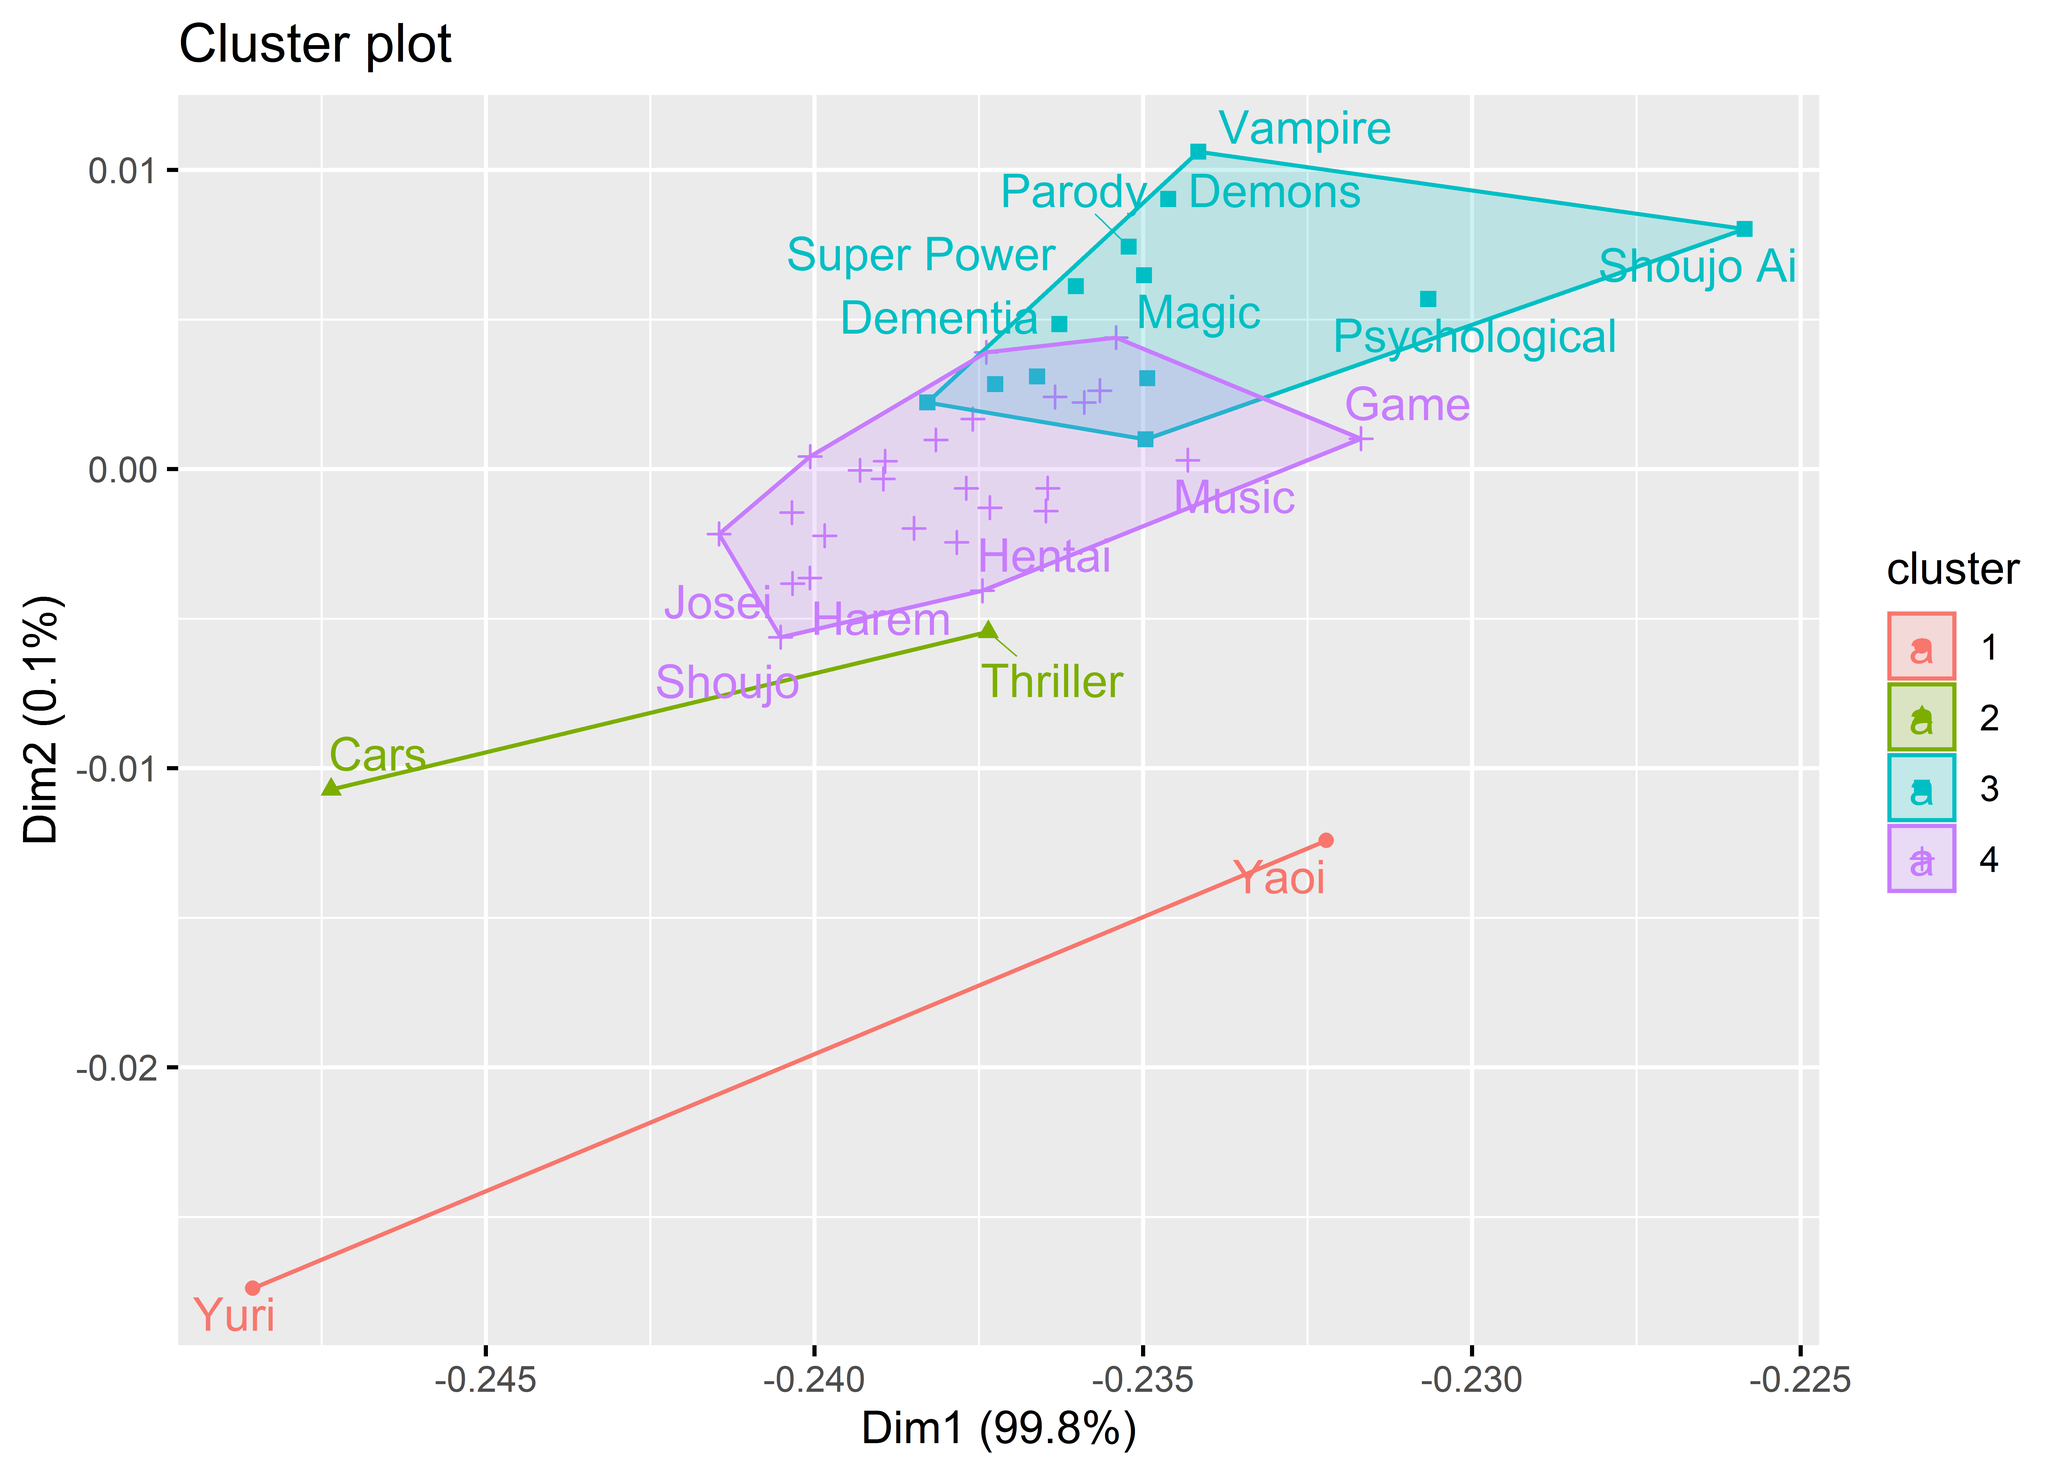
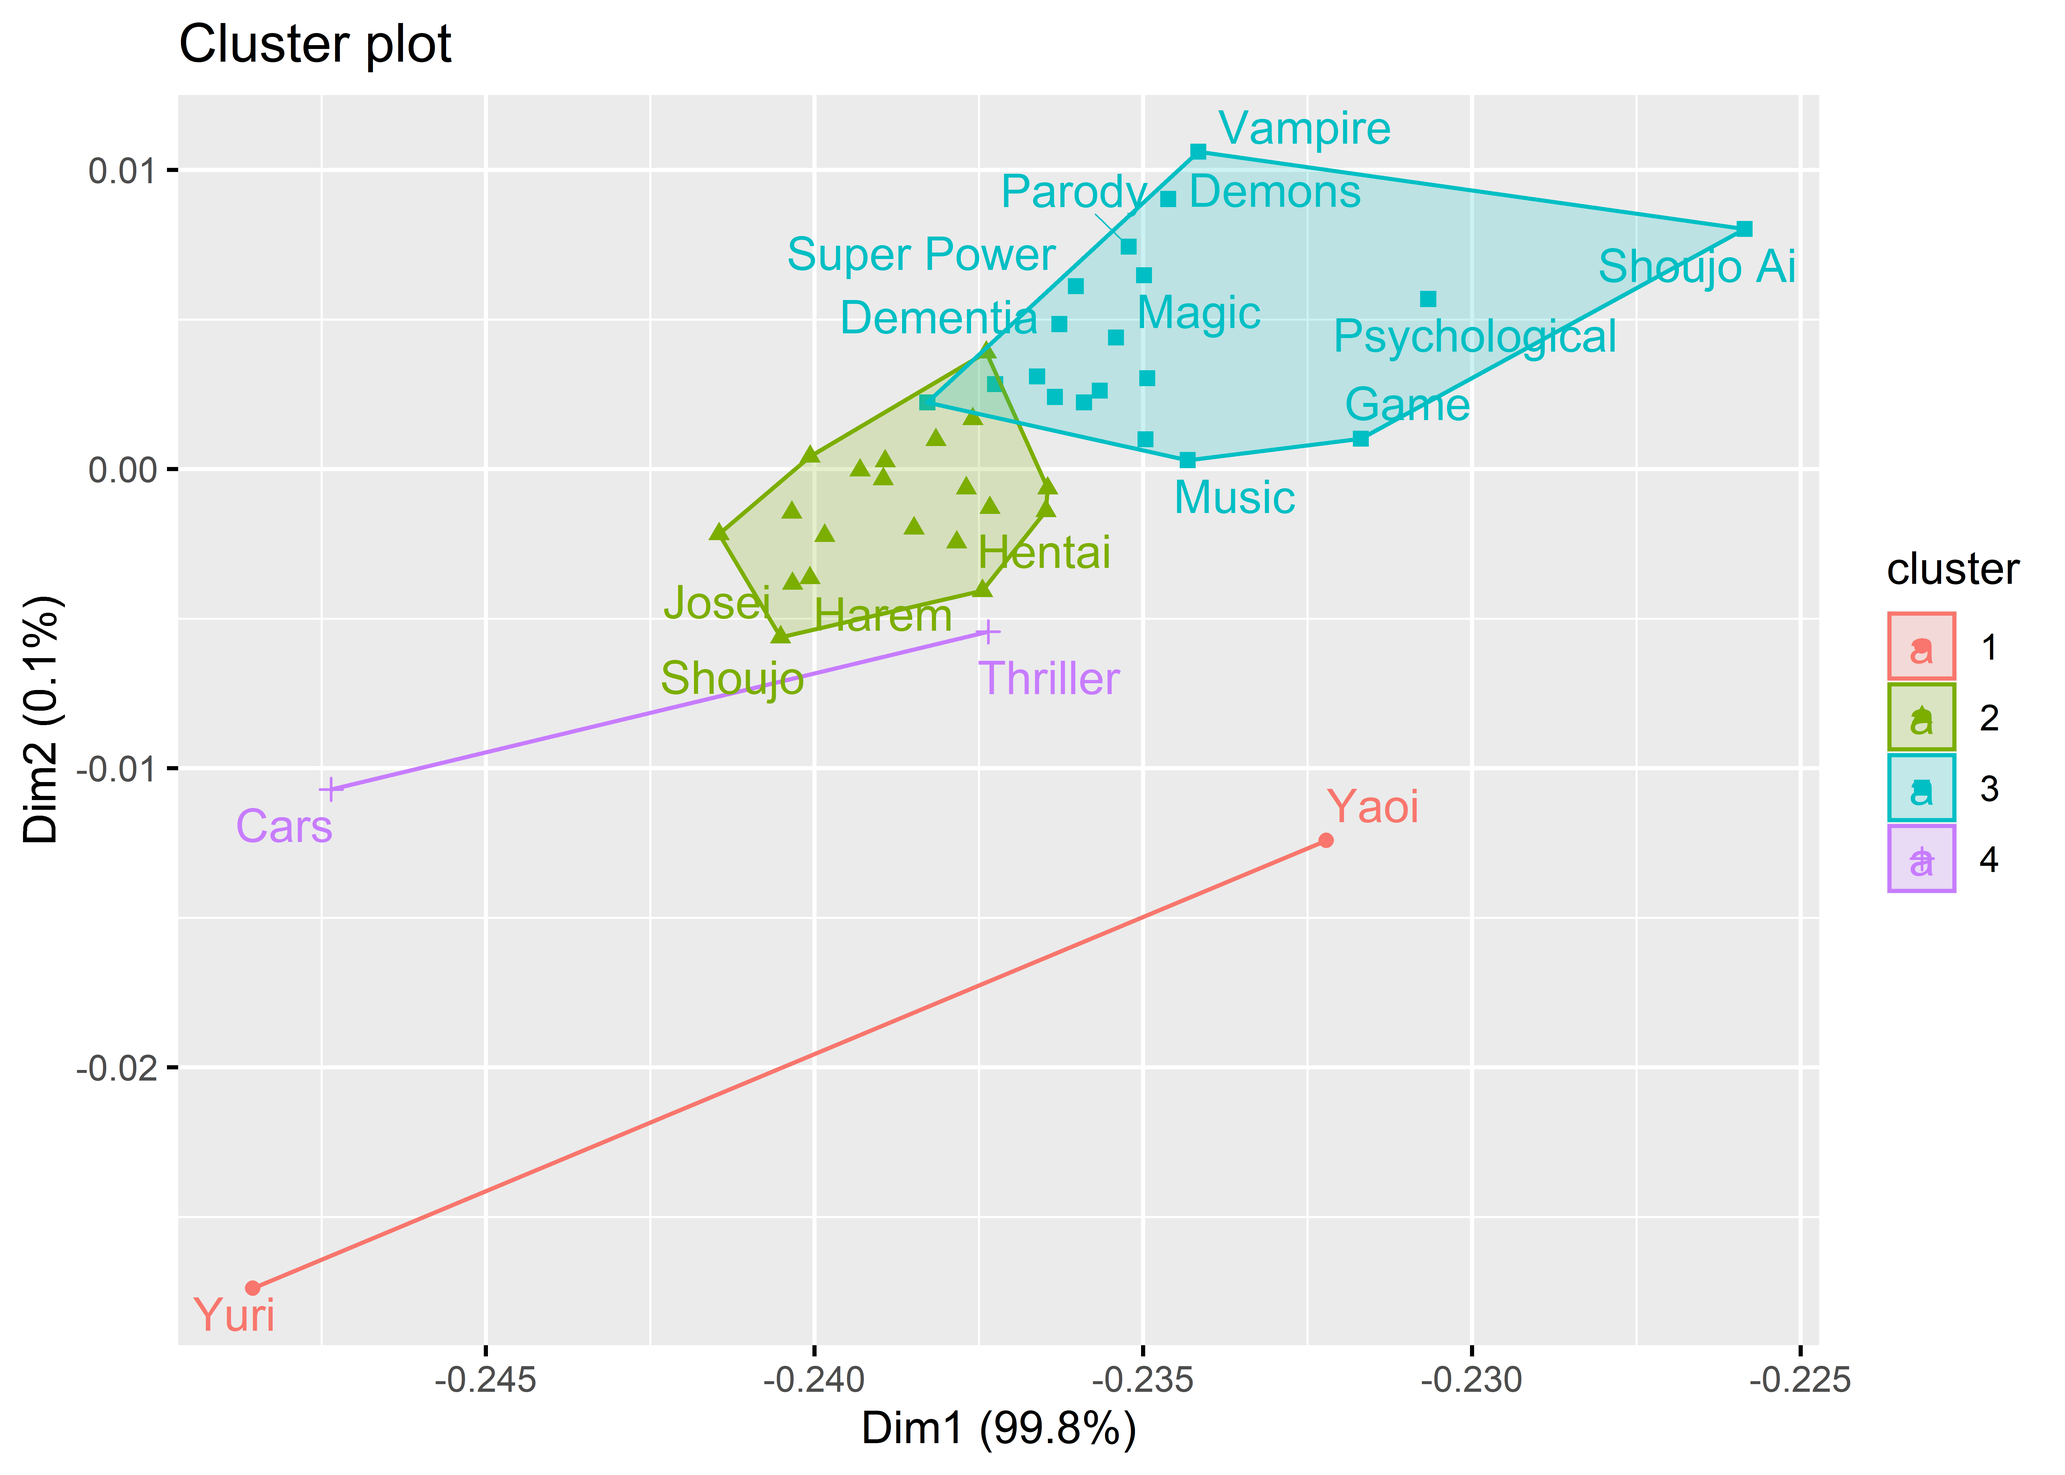
knit files

diff --git a/docs/missing-values.html b/docs/missing-values.html
@@ -23,7 +23,7 @@
 <meta name="author" content="Haozhong Zheng and Weixun Qian" />
 
 
-<meta name="date" content="2022-04-05" />
+<meta name="date" content="2022-05-05" />
 
   <meta name="viewport" content="width=device-width, initial-scale=1" />
   <meta name="apple-mobile-web-app-capable" content="yes" />
@@ -75,9 +75,29 @@
 <li class="chapter" data-level="1" data-path="index.html"><a href="index.html"><i class="fa fa-check"></i><b>1</b> Introduction<span></span></a></li>
 <li class="chapter" data-level="2" data-path="data-sources.html"><a href="data-sources.html"><i class="fa fa-check"></i><b>2</b> Data sources<span></span></a></li>
 <li class="chapter" data-level="3" data-path="data-transformation.html"><a href="data-transformation.html"><i class="fa fa-check"></i><b>3</b> Data transformation<span></span></a></li>
-<li class="chapter" data-level="4" data-path="missing-values.html"><a href="missing-values.html"><i class="fa fa-check"></i><b>4</b> Missing values<span></span></a></li>
-<li class="chapter" data-level="5" data-path="results.html"><a href="results.html"><i class="fa fa-check"></i><b>5</b> Results<span></span></a></li>
-<li class="chapter" data-level="6" data-path="interactive-component.html"><a href="interactive-component.html"><i class="fa fa-check"></i><b>6</b> Interactive component<span></span></a></li>
+<li class="chapter" data-level="4" data-path="missing-values.html"><a href="missing-values.html"><i class="fa fa-check"></i><b>4</b> Missing values<span></span></a>
+<ul>
+<li class="chapter" data-level="4.1" data-path="missing-values.html"><a href="missing-values.html#data-import-and-basic-examination"><i class="fa fa-check"></i><b>4.1</b> Data import and basic examination<span></span></a></li>
+<li class="chapter" data-level="4.2" data-path="missing-values.html"><a href="missing-values.html#deal-with-missing-values-in-the-profile-dataset"><i class="fa fa-check"></i><b>4.2</b> Deal with missing values in the profile dataset<span></span></a></li>
+<li class="chapter" data-level="4.3" data-path="missing-values.html"><a href="missing-values.html#deal-with-missing-values-in-the-ratings-dataset"><i class="fa fa-check"></i><b>4.3</b> Deal with missing values in the ratings dataset<span></span></a></li>
+</ul></li>
+<li class="chapter" data-level="5" data-path="results.html"><a href="results.html"><i class="fa fa-check"></i><b>5</b> Results<span></span></a>
+<ul>
+<li class="chapter" data-level="5.1" data-path="results.html"><a href="results.html#sentiment-analysis"><i class="fa fa-check"></i><b>5.1</b> Sentiment Analysis<span></span></a>
+<ul>
+<li class="chapter" data-level="5.1.1" data-path="results.html"><a href="results.html#heatmap"><i class="fa fa-check"></i><b>5.1.1</b> Heatmap<span></span></a></li>
+<li class="chapter" data-level="5.1.2" data-path="results.html"><a href="results.html#cluster-plot"><i class="fa fa-check"></i><b>5.1.2</b> Cluster Plot<span></span></a></li>
+<li class="chapter" data-level="5.1.3" data-path="results.html"><a href="results.html#pca"><i class="fa fa-check"></i><b>5.1.3</b> PCA<span></span></a></li>
+</ul></li>
+</ul></li>
+<li class="chapter" data-level="6" data-path="interactive-component.html"><a href="interactive-component.html"><i class="fa fa-check"></i><b>6</b> Interactive component<span></span></a>
+<ul>
+<li class="chapter" data-level="6.1" data-path="interactive-component.html"><a href="interactive-component.html#overview"><i class="fa fa-check"></i><b>6.1</b> Overview<span></span></a></li>
+<li class="chapter" data-level="6.2" data-path="interactive-component.html"><a href="interactive-component.html#introduction-1"><i class="fa fa-check"></i><b>6.2</b> Introduction<span></span></a></li>
+<li class="chapter" data-level="6.3" data-path="interactive-component.html"><a href="interactive-component.html#anime-by-genre"><i class="fa fa-check"></i><b>6.3</b> Anime by Genre<span></span></a></li>
+<li class="chapter" data-level="6.4" data-path="interactive-component.html"><a href="interactive-component.html#recommendation"><i class="fa fa-check"></i><b>6.4</b> Recommendation<span></span></a></li>
+<li class="chapter" data-level="6.5" data-path="interactive-component.html"><a href="interactive-component.html#potential-problems"><i class="fa fa-check"></i><b>6.5</b> Potential Problems<span></span></a></li>
+</ul></li>
 <li class="chapter" data-level="7" data-path="conclusion.html"><a href="conclusion.html"><i class="fa fa-check"></i><b>7</b> Conclusion<span></span></a></li>
 <li class="divider"></li>
 <li><a href="https://github.com/rstudio/bookdown" target="blank">Published with bookdown</a></li>
@@ -100,7 +120,63 @@
             <section class="normal" id="section-">
 <div id="missing-values" class="section level1 hasAnchor" number="4">
 <h1><span class="header-section-number">Chapter 4</span> Missing values<a href="missing-values.html#missing-values" class="anchor-section" aria-label="Anchor link to header"></a></h1>
+<p>In this part, we deal with missing values from two datasets: Anime Rating and User Profile. Since the myAnimeList website maintains a well-structured database, most of its entries are complete, except for some unavoidable data entries. We will examine the two datasets and see if there are some patterns in it.</p>
+<div id="data-import-and-basic-examination" class="section level2 hasAnchor" number="4.1">
+<h2><span class="header-section-number">4.1</span> Data import and basic examination<a href="missing-values.html#data-import-and-basic-examination" class="anchor-section" aria-label="Anchor link to header"></a></h2>
+<pre><code>## # A tibble: 6 x 5
+##   user_id anime_id rating watching_status watched_episodes
+##     &lt;dbl&gt;    &lt;dbl&gt;  &lt;dbl&gt;           &lt;dbl&gt;            &lt;dbl&gt;
+## 1       0       67      9               1                1
+## 2       0     6702      7               1                4
+## 3       0      242     10               1                4
+## 4       0     4898     NA               1                1
+## 5       0       21     10               1                0
+## 6       0       24      9               1                5</code></pre>
+<pre><code>## # A tibble: 6 x 6
+##   profile         gender birthday     favorites_anime         num_favorite   age
+##   &lt;chr&gt;           &lt;chr&gt;  &lt;chr&gt;        &lt;chr&gt;                          &lt;dbl&gt; &lt;dbl&gt;
+## 1 DesolatePsyche  Male   Oct 2, 1994  [&#39;33352&#39;, &#39;25013&#39;, &#39;55~          165    28
+## 2 baekbeans       Female Nov 10, 2000 [&#39;11061&#39;, &#39;31964&#39;, &#39;85~           83    22
+## 3 skrn            &lt;NA&gt;   &lt;NA&gt;         [&#39;918&#39;, &#39;2904&#39;, &#39;11741~           74    NA
+## 4 edgewalker00    Male   Sep 5        [&#39;5680&#39;, &#39;849&#39;, &#39;2904&#39;~           40    NA
+## 5 aManOfCulture99 Male   Oct 30, 1999 [&#39;4181&#39;, &#39;7791&#39;, &#39;9617~           80    23
+## 6 eneri           &lt;NA&gt;   &lt;NA&gt;         [&#39;5114&#39;, &#39;4898&#39;, &#39;2904~           40    NA</code></pre>
+</div>
+<div id="deal-with-missing-values-in-the-profile-dataset" class="section level2 hasAnchor" number="4.2">
+<h2><span class="header-section-number">4.2</span> Deal with missing values in the profile dataset<a href="missing-values.html#deal-with-missing-values-in-the-profile-dataset" class="anchor-section" aria-label="Anchor link to header"></a></h2>
+<p><img src="finalproj_files/figure-html/unnamed-chunk-6-1.png" width="672" /></p>
+<p>From the plot above, we could see that the largest proportion of rows are complete, but there are still a considerable amount of rows which have 1,2,3 missing values, and we will examine column distribution of missing values.</p>
+<pre><code>##                 col_na_profile
+## age                      42470
+## birthday                 34920
+## gender                   27871
+## profile                      0
+## favorites_anime              0
+## num_favorite                 0</code></pre>
+<p>From the table we could see that the age, birthday, and gender columns all have a lot of missing values, while the profile, favorite_anime and num_favorite columns are all filled with informative values.</p>
+<p>Next, we examine the missing value distribution in a more broad perspective, as the dataset is too large and not feasible for this plot, we sampled only 200 rows randomly, which qualifies to display the general trend of the data. From the plot we could see that the three columns have large ratio of missing values, this makes sense since these three rows are all sensitive information of the users and some of them may not be willing to share this information, and all anime-related columns are filled completely, which meets our expectation.</p>
+<p><img src="finalproj_files/figure-html/unnamed-chunk-8-1.png" width="672" />
+With the plot_missing function, we could see five different missing patterns (if any column is missing). The largest portion of data is complete, and the most common missing pattern is that all three columns that involve sensitive information (age, birthday and gender) are missing, then is age and birthday, other missing patterns are relatively uncommon.</p>
+<p><img src="finalproj_files/figure-html/unnamed-chunk-9-1.png" width="672" /></p>
+</div>
+<div id="deal-with-missing-values-in-the-ratings-dataset" class="section level2 hasAnchor" number="4.3">
+<h2><span class="header-section-number">4.3</span> Deal with missing values in the ratings dataset<a href="missing-values.html#deal-with-missing-values-in-the-ratings-dataset" class="anchor-section" aria-label="Anchor link to header"></a></h2>
+<p>Next, we examine the missing values in the rating dataset. From the table below, we could see that slightly more than half of the dataset is complete, but there are still considerable amount of rows that have at least one missing value. This makes sense in the website description, since some of the users may mark the watching status of a certain anime, but they may not rate it right away, which leads to a large portion of unrated anime in the rating database.</p>
+<pre><code>##   row_na_rating     Freq
+## 1             0 12506062
+## 2             1  9340576
+## 3             2       94</code></pre>
+<p>Next, we examine the missing pattern among columns. We could see that most of the missing values lie in the rating column, and very few lie in the watching_status column. The first point has been addressed in the previous paragraph, and the second point makes sense because users may very rarely mark the watching status as an invalid value that cannot be correctly encoded by the system, which leads to the 165 missing values in this column.</p>
+<pre><code>##                  col_na_rating
+## rating                 9340599
+## watching_status            165
+## user_id                      0
+## anime_id                     0
+## watched_episodes             0</code></pre>
+<p>Similar to the last part, we have to sample the dataset to make the plot, and we could see that almost all missing values lie in the rating column.</p>
+<p><img src="finalproj_files/figure-html/unnamed-chunk-12-1.png" width="672" /></p>
 
+</div>
 </div>
             </section>
 

diff --git a/docs/results.html b/docs/results.html
@@ -75,7 +75,12 @@
 <li class="chapter" data-level="1" data-path="index.html"><a href="index.html"><i class="fa fa-check"></i><b>1</b> Introduction<span></span></a></li>
 <li class="chapter" data-level="2" data-path="data-sources.html"><a href="data-sources.html"><i class="fa fa-check"></i><b>2</b> Data sources<span></span></a></li>
 <li class="chapter" data-level="3" data-path="data-transformation.html"><a href="data-transformation.html"><i class="fa fa-check"></i><b>3</b> Data transformation<span></span></a></li>
-<li class="chapter" data-level="4" data-path="missing-values.html"><a href="missing-values.html"><i class="fa fa-check"></i><b>4</b> Missing values<span></span></a></li>
+<li class="chapter" data-level="4" data-path="missing-values.html"><a href="missing-values.html"><i class="fa fa-check"></i><b>4</b> Missing values<span></span></a>
+<ul>
+<li class="chapter" data-level="4.1" data-path="missing-values.html"><a href="missing-values.html#data-import-and-basic-examination"><i class="fa fa-check"></i><b>4.1</b> Data import and basic examination<span></span></a></li>
+<li class="chapter" data-level="4.2" data-path="missing-values.html"><a href="missing-values.html#deal-with-missing-values-in-the-profile-dataset"><i class="fa fa-check"></i><b>4.2</b> Deal with missing values in the profile dataset<span></span></a></li>
+<li class="chapter" data-level="4.3" data-path="missing-values.html"><a href="missing-values.html#deal-with-missing-values-in-the-ratings-dataset"><i class="fa fa-check"></i><b>4.3</b> Deal with missing values in the ratings dataset<span></span></a></li>
+</ul></li>
 <li class="chapter" data-level="5" data-path="results.html"><a href="results.html"><i class="fa fa-check"></i><b>5</b> Results<span></span></a>
 <ul>
 <li class="chapter" data-level="5.1" data-path="results.html"><a href="results.html#sentiment-analysis"><i class="fa fa-check"></i><b>5.1</b> Sentiment Analysis<span></span></a>
@@ -137,7 +142,8 @@
 <ul>
 <li>The cluster plot gives us the cluster of emotions of reviewers. As we can see from the heatmap, <strong>Yaoi</strong> and <strong>Yuri</strong> has the most change in “surprise” and “trust”. Therefore they are in the same cluster.</li>
 <li>For some genres like <strong>Vampire</strong>, <strong>Demons</strong>, <strong>Super Power</strong>, <strong>Magic</strong> and <strong>Psychological</strong>, they are in the same cluster. Which make sense.</li>
-<li>For some genres like <strong>Shounen Ai</strong>, <strong>Harem</strong> and <strong>Hentai</strong>, they are in the same cluster. These are all some types of animes with small group of audiences mostly males.</li>
+<li><strong>Cars</strong> and <strong>Thriller</strong> change mostly in some sentiment from the heatmap, so they are in the same cluster.</li>
+<li>For some genres like <strong>Shoujo</strong>, <strong>Shounen Ai</strong>, <strong>Harem</strong> and <strong>Hentai</strong>, they are in the same cluster. These are all some types of animes with small group of audiences.</li>
 </ul>
 </div>
 <div id="pca" class="section level3 hasAnchor" number="5.1.3">

diff --git a/docs/404.html b/docs/404.html
@@ -75,7 +75,12 @@
 <li class="chapter" data-level="1" data-path="index.html"><a href="index.html"><i class="fa fa-check"></i><b>1</b> Introduction<span></span></a></li>
 <li class="chapter" data-level="2" data-path="data-sources.html"><a href="data-sources.html"><i class="fa fa-check"></i><b>2</b> Data sources<span></span></a></li>
 <li class="chapter" data-level="3" data-path="data-transformation.html"><a href="data-transformation.html"><i class="fa fa-check"></i><b>3</b> Data transformation<span></span></a></li>
-<li class="chapter" data-level="4" data-path="missing-values.html"><a href="missing-values.html"><i class="fa fa-check"></i><b>4</b> Missing values<span></span></a></li>
+<li class="chapter" data-level="4" data-path="missing-values.html"><a href="missing-values.html"><i class="fa fa-check"></i><b>4</b> Missing values<span></span></a>
+<ul>
+<li class="chapter" data-level="4.1" data-path="missing-values.html"><a href="missing-values.html#data-import-and-basic-examination"><i class="fa fa-check"></i><b>4.1</b> Data import and basic examination<span></span></a></li>
+<li class="chapter" data-level="4.2" data-path="missing-values.html"><a href="missing-values.html#deal-with-missing-values-in-the-profile-dataset"><i class="fa fa-check"></i><b>4.2</b> Deal with missing values in the profile dataset<span></span></a></li>
+<li class="chapter" data-level="4.3" data-path="missing-values.html"><a href="missing-values.html#deal-with-missing-values-in-the-ratings-dataset"><i class="fa fa-check"></i><b>4.3</b> Deal with missing values in the ratings dataset<span></span></a></li>
+</ul></li>
 <li class="chapter" data-level="5" data-path="results.html"><a href="results.html"><i class="fa fa-check"></i><b>5</b> Results<span></span></a>
 <ul>
 <li class="chapter" data-level="5.1" data-path="results.html"><a href="results.html#sentiment-analysis"><i class="fa fa-check"></i><b>5.1</b> Sentiment Analysis<span></span></a>
